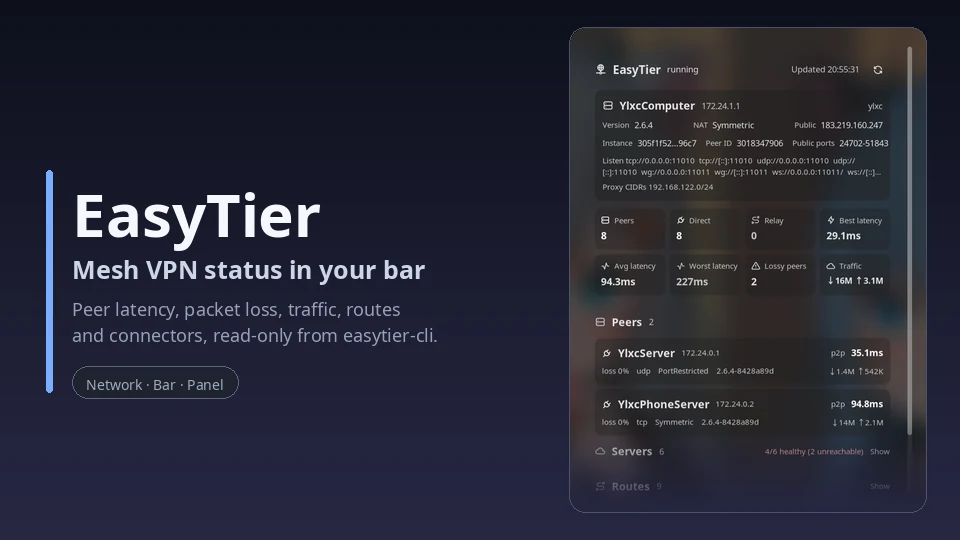
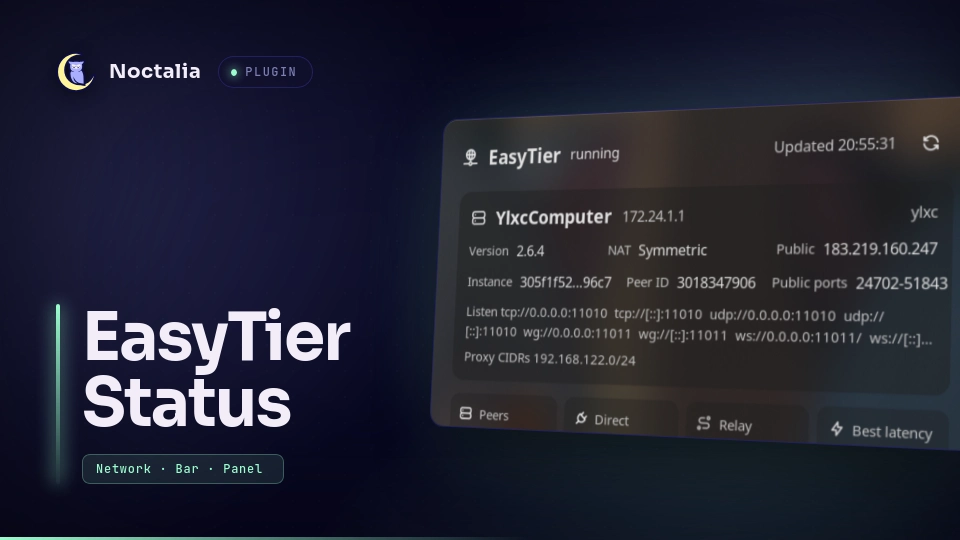
Use the official thumbnail generator image and align the plugin name
- thumbnail.webp: exported from assets.noctalia.dev/plugins/thumbnail-generator.html
  (960x540, Iris accent) with an English panel capture
- name / README title: EasyTier -> EasyTier Status to match the card

diff --git a/easytier/README.md b/easytier/README.md
@@ -1,4 +1,4 @@
-# EasyTier
+# EasyTier Status
 
 Show your EasyTier mesh VPN right in the Noctalia bar: how many peers are
 online, which of them are reached directly, the best latency and the running
